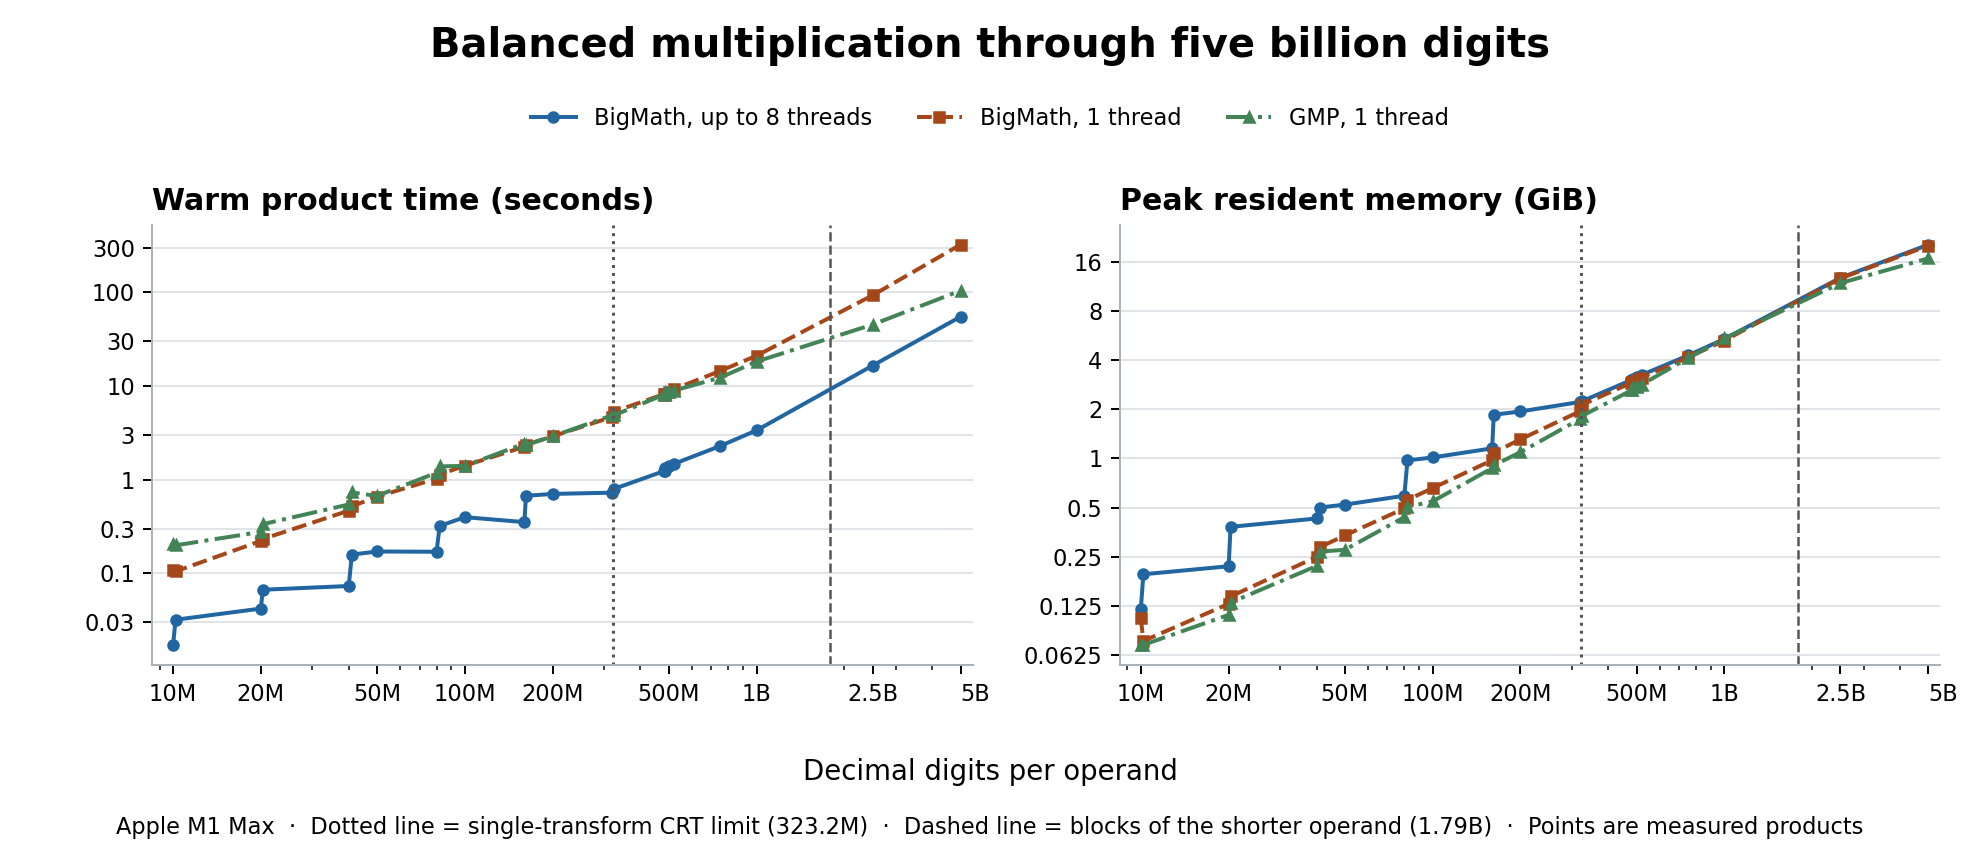
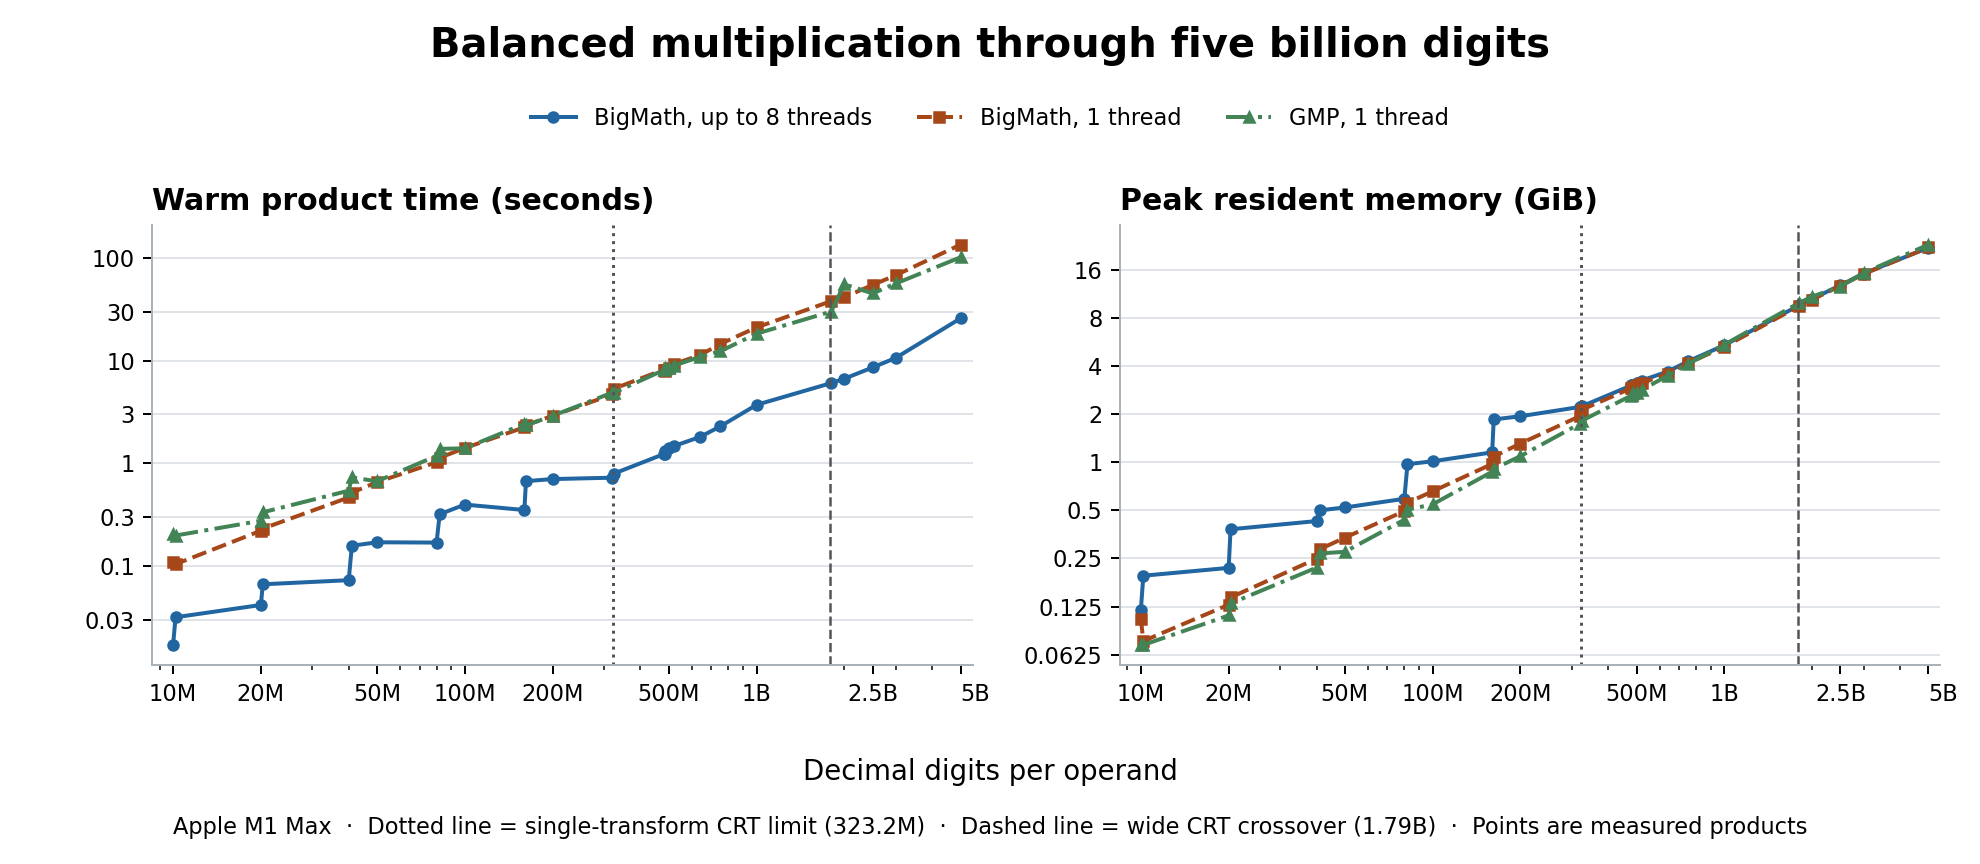
Publish wide CRT product benchmarks

diff --git a/docs/images/make_memory_plots.py b/docs/images/make_memory_plots.py
@@ -16,7 +16,7 @@ DEFAULT_CSV = HERE.parent / "benchmarks" / "2026-11-21-crt-ceiling-full-m1-max-m
 CEILING_CSV = HERE.parent / "benchmarks" / "2026-11-21-crt-ceiling-m1-max.csv"
 # Seeded balanced products remeasured after convolution residues replaced
 # block products above 646M digits; these replace the seeded rows above.
-LARGE_CSV = HERE.parent / "benchmarks" / "2026-11-21-residue-products-full-m1-max-memory.csv"
+LARGE_CSV = HERE.parent / "benchmarks" / "2026-11-21-wide-crt-m1-max-memory.csv"
 COLORS = ("#2165a1", "#a54718", "#438456")
 LIBRARIES = {"bigmath_default": "BigMath, up to 8 threads", "bigmath_single": "BigMath, 1 thread",
              "gmp": "GMP, 1 thread"}
@@ -119,7 +119,7 @@ def plot_ratios(rows, library, path, host, gmp_name, default_name):
     plt.close(fig)
 
 
-def plot_large(rows, path, host, default_name, *, show_block_boundary=False):
+def plot_large(rows, path, host, default_name, *, show_wide_boundary=False):
     samples = [r for r in rows if r["op"] == "mul" and r["a_digits"] == r["b_digits"]
                and int(r["a_digits"]) >= 10_000_000]
     largest = max(int(r["a_digits"]) for r in samples) / 1e6
@@ -127,7 +127,7 @@ def plot_large(rows, path, host, default_name, *, show_block_boundary=False):
     ceiling = 2**24 * 64 * math.log10(2) / 1e6
     # Shorter operand of 185,794,560 coefficients: the most one set of
     # signed residues resolves (CrtMaxBiasedTerms).
-    block_boundary = 185_794_560 * 32 * math.log10(2) / 1e6
+    wide_boundary = 185_794_560 * 32 * math.log10(2) / 1e6
     limited = any(r["status"] == "crt_length_limit" for r in samples)
     for ax, field, divisor, title in zip(axes, ["warm_ms", "warm_peak_bytes"], [1000, 2**30],
                                          ["Warm product time (seconds)", "Peak resident memory (GiB)"]):
@@ -138,8 +138,8 @@ def plot_large(rows, path, host, default_name, *, show_block_boundary=False):
             ax.plot(*zip(*points), marker=["o", "s", "^"][i], ms=4, color=COLORS[i],
                     lw=1.6, ls=["-", "--", "-."][i], label=default_name if lib == "bigmath_default" else label)
         ax.axvline(ceiling, color="#555", ls=":", lw=1.2)
-        if show_block_boundary:
-            ax.axvline(block_boundary, color="#555", ls="--", lw=1.0)
+        if show_wide_boundary:
+            ax.axvline(wide_boundary, color="#555", ls="--", lw=1.0)
         if limited:
             ax.axvspan(ceiling, largest * 1.1, color="#f0f1f4", zorder=-2)
         if field == "warm_ms":
@@ -158,8 +158,8 @@ def plot_large(rows, path, host, default_name, *, show_block_boundary=False):
                ncol=3, frameon=False, fontsize=9)
     fig.supxlabel("Decimal digits per operand", fontsize=11, y=.09)
     note = "Shaded sizes exceed BigMath’s CRT limit (323.2M)" if limited else "Dotted line = single-transform CRT limit (323.2M)"
-    if show_block_boundary:
-        note += f"  ·  Dashed line = blocks of the shorter operand ({block_boundary / 1000:.2f}B)"
+    if show_wide_boundary:
+        note += f"  ·  Dashed line = wide CRT crossover ({wide_boundary / 1000:.2f}B)"
     fig.text(.5,.035, "  ·  ".join(filter(None, (host, note, "Points are measured products"))),
              ha="center", fontsize=9)
     fig.subplots_adjust(top=.74, bottom=.23, left=.077, right=.98, wspace=.18)
@@ -188,4 +188,4 @@ if __name__ == "__main__":
         plot_ratios(results, name, args.outdir / f"bigmath_vs_gmp_memory{suffix}.png", host, gmp_name, default_name)
     if any(r["source"] == "seeded_binary" and r["a_digits"] == "1000000000" for r in results):
         plot_large(results, args.outdir / "bigmath_vs_gmp_large_products.png", host, default_name,
-                   show_block_boundary=published_snapshot)
+                   show_wide_boundary=published_snapshot)

diff --git a/BENCHMARK.md b/BENCHMARK.md
@@ -27,7 +27,7 @@ The November 21, 2026 full timing run measured revision `c945bdc` on the Apple M
 
 The full CSV includes the first call, fastest subsequent call, warm repetition count and arithmetic check status for all 111 rows. Most large sizes have one warm observation per library. All 24 product checks and 40 division checks matched GMP’s reference hashes. Each division mode was checked against the corresponding GMP operation. [README performance table](README.md#performance-numbers) · [Single-thread CSV](docs/benchmarks/2026-11-21-crt-ceiling-full-m1-max-single-thread.csv) · [Single-thread figure](docs/images/bigmath_vs_gmp_single_thread.png)
 
-The timing figures also show balanced products from 200M to 5B digits measured in fresh processes. The 200M sample is from the same revision and uses the same operands as the long-lived run; the larger sizes were remeasured on revision `99228ed`. [Isolated timings, peaks and hashes](docs/benchmarks/2026-11-21-residue-products-full-m1-max-memory.csv)
+The timing figures also show balanced products from 200M to 5B digits measured in fresh processes. The 200M sample is from the same revision and uses the same operands as the long-lived run; the larger sizes use seeded runs, including the wide CRT sweep from 640M through 5B. [Isolated timings, peaks and hashes](docs/benchmarks/2026-11-21-wide-crt-m1-max-memory.csv)
 
 To repeat the single-thread run, give the driver its own build and results directory. The figure generator uses the checked-in CSVs and requires Matplotlib.
 
@@ -60,7 +60,7 @@ To repeat the default-build run with fresh GMP timings, run the full profile fro
 bash tests/performance/benchsuite/run_benchmark.sh full --force-gmp
 ```
 
-To measure time and peak RSS in fresh processes, including the 500M, 750M, 1B, 2.5B and 5B products, run the extended profile. The 5B case needs about 21 GiB of RAM.
+To measure time and peak RSS in fresh processes, including the 500M, 750M, 1B, 2.5B and 5B products, run the extended profile. The 5B comparison peaked at 23.01 GiB per process.
 
 ```sh
 bash tests/performance/benchsuite/run_benchmark.sh full --extended
@@ -302,7 +302,7 @@ The 5M threaded result varied most. In 12 additional pairs of fresh processes wi
 
 ## Peak memory and large-product time
 
-The November 21, 2026 run measured revision `c945bdc` on an Apple M1 Max with 32 GiB of RAM. Each case ran in its own process for each library. The 111 standard cases share operands with the timing tables above. Seventeen additional balanced products used seeded inputs up to one billion decimal digits per operand. All 81 integer arithmetic results per BigMath build matched GMP. The figures replace those seeded products with 19 sizes through five billion digits measured on revision `99228ed`. [Times, RSS and hashes](docs/benchmarks/2026-11-21-crt-ceiling-full-m1-max-memory.csv) · [Seeded products through 5B](docs/benchmarks/2026-11-21-residue-products-full-m1-max-memory.csv) · [Previous full sweep](docs/benchmarks/2026-11-21-blocked-crt-memory-m1-max.csv) · [Benchmark instructions](tests/performance/benchsuite/README.md#isolated-peak-memory-and-time)
+The November 21, 2026 run measured revision `c945bdc` on an Apple M1 Max with 32 GiB of RAM. Each case ran in its own process for each library. The 111 standard cases share operands with the timing tables above. Seventeen additional balanced products used seeded inputs up to one billion decimal digits per operand. All 81 integer arithmetic results per BigMath build matched GMP. The figures use 23 seeded sizes through five billion digits. The wide CRT run refreshed seven sizes from 640M through 5B digits. [Times, RSS and hashes](docs/benchmarks/2026-11-21-crt-ceiling-full-m1-max-memory.csv) · [Seeded products through 5B](docs/benchmarks/2026-11-21-wide-crt-m1-max-memory.csv) · [Previous full sweep](docs/benchmarks/2026-11-21-blocked-crt-memory-m1-max.csv) · [Benchmark instructions](tests/performance/benchsuite/README.md#isolated-peak-memory-and-time)
 
 **How to read the figures.** RSS is the operating system’s high-water mark for resident process memory. We record it with the inputs ready, after the first operation, and after the last warm call, before hashing. Arithmetic panels show the last high-water mark. The warm BigMath product assigns a new result to the previous output variable. GMP passes the same destination back to `mpz_mul`. The measurements include the storage each public operation uses. Conversion panels show both readings. A ratio of 4 means BigMath reached four times GMP’s peak. Small operands include roughly 2 MiB of process startup memory. A fresh process at every size excludes caches built by preceding cases. The ordinary timing tables use a long-lived benchmark process.
 
@@ -331,7 +331,7 @@ The controls motivated the threaded dispatch change, compact serial weights and 
 
 ### Balanced products through five billion digits
 
-Each cell reports one warm product time and the process peak RSS through that call. The 19 additional sizes use seeded binary operands and were measured on revision `99228ed`, after convolution residues replaced block products above 646M digits. The standard sizes (10M, 20M, 50M, 100M and 200M) use operands from the full manifest and come from the `c945bdc` sweep; the change does not affect products of one transform. All three libraries ran on matching inputs, and all 38 BigMath products matched GMP. [Seeded measurements](docs/benchmarks/2026-11-21-residue-products-full-m1-max-memory.csv) · [Standard sizes](docs/benchmarks/2026-11-21-crt-ceiling-full-m1-max-memory.csv)
+Each cell reports one warm product time and the process peak RSS through that call. The 23 added sizes use seeded binary operands. Seven sizes from 640M to 5B were rerun with AppleClang Release builds on an Apple M1 Max with 32 GiB of RAM. The baseline is `3a6e250` and the wide build is `6ddd643`. The baseline GMP measurements and hashes serve as the reference for both builds. The other seeded sizes come from revision `99228ed`. The standard sizes (10M, 20M, 50M, 100M and 200M) use full-manifest operands from the `c945bdc` sweep. All reported BigMath products matched the corresponding GMP hash. [Seeded measurements](docs/benchmarks/2026-11-21-wide-crt-m1-max-memory.csv) · [Matched baseline](docs/benchmarks/2026-11-21-wide-crt-baseline-m1-max-memory.csv) · [Standard sizes](docs/benchmarks/2026-11-21-crt-ceiling-full-m1-max-memory.csv)
 
 | Digits per operand | BigMath, up to 8 threads | BigMath, 1 thread | GMP, 1 thread |
 |---:|---:|---:|---:|
@@ -355,12 +355,25 @@ Each cell reports one warm product time and the process peak RSS through that ca
 | 486M | 1.232 s · 3.06 GiB | 8.002 s · 2.94 GiB | 8.280 s · 2.73 GiB |
 | 500M | 1.419 s · 3.14 GiB | 8.552 s · 3.03 GiB | 8.550 s · 2.73 GiB |
 | 520M | 1.475 s · 3.25 GiB | 9.260 s · 3.13 GiB | 8.928 s · 2.84 GiB |
+| 640M | 1.811 s · 3.70 GiB | 11.300 s · 3.59 GiB | 10.895 s · 3.49 GiB |
 | 750M | 2.290 s · 4.28 GiB | 14.49 s · 4.16 GiB | 12.30 s · 4.12 GiB |
-| 1B | 3.368 s · 5.41 GiB | 21.09 s · 5.28 GiB | 18.26 s · 5.45 GiB |
-| 2.5B | 16.55 s · 12.81 GiB | 93.16 s · 12.71 GiB | 45.35 s · 11.90 GiB |
-| 5B | 54.95 s · 20.46 GiB | 323.0 s · 20.16 GiB | 104.3 s · 16.86 GiB |
+| 1B | 3.718 s · 5.40 GiB | 21.038 s · 5.28 GiB | 18.289 s · 5.45 GiB |
+| 1.8B | 6.043 s · 9.58 GiB | 37.777 s · 9.47 GiB | 29.946 s · 9.93 GiB |
+| 2B | 6.678 s · 10.53 GiB | 41.325 s · 10.43 GiB | 55.129 s · 10.89 GiB |
+| 2.5B | 8.582 s · 12.83 GiB | 54.461 s · 12.73 GiB | 44.972 s · 12.59 GiB |
+| 3B | 10.635 s · 15.18 GiB | 67.608 s · 15.08 GiB | 56.218 s · 15.31 GiB |
+| 5B | 25.757 s · 22.00 GiB | 133.979 s · 22.10 GiB | 101.045 s · 23.01 GiB |
 
-**Above 1.79B digits.** Up to eight threads, BigMath took 0.37× GMP’s time at 2.5B digits and 0.53× at 5B. On one thread it took 2.05× and 3.10×. One set of signed residues resolves a shorter operand of at most 185,794,560 coefficients, about 1.79B digits. Beyond it the shorter operand is cut into blocks and every block pair is a residue product again. At 2.5B digits that means two products of 1.25B by 2.5B digits, each transforming the whole longer operand. At 5B the longer operand is cut too, into six products of about 1.67B by 2.5B digits. Transform work therefore grows faster than the product: per prime, the residues add up to 12 transforms of length 2²⁶ at 2.5B and 39 at 5B, against 3.125 at 1B, while the product grows 2.5× and 5×. Peak RSS was 1.08× GMP’s at 2.5B and 1.21× at 5B in the threaded build.
+For balanced operands above 1.79B digits, wide CRT replaces standard-prime overlap-add. At 2.5B digits the warm time changed from 16.56 to 8.58 s with up to eight threads and from 94.33 to 54.46 s on one thread. At 5B the times changed from 56.00 to 25.76 s and from 322.19 to 133.98 s. The wide build peaked at 22.00 GiB threaded and 22.10 GiB single-threaded. A separately instrumented threaded 5B all-ones product took 21.54 s on its first call. Folding and weighting took 4.91 s, transforms 11.30 s, reconstruction including unweighting 2.77 s (12.9% of the call), and CRT finalization 1.73 s.
+
+The 640M control differed by 1.1% threaded and 3.6% single-threaded. The 1B control was repeated after timing varied in the first sweep. The repeat measured 3.396 versus 3.418 s threaded and 21.263 versus 21.044 s single-threaded, a difference of at most 1.1%. [1B control repeat](docs/benchmarks/2026-11-21-wide-crt-1b-control-m1-max-memory.csv)
+
+Run the isolated sweep on each revision with its own threaded and single-threaded builds.
+
+```sh
+python3 tests/performance/benchsuite/run_memory.py DATASET DEFAULT_BUILD SINGLE_BUILD wide.csv \
+  --balanced-digits 640000000 1000000000 1800000000 2000000000 2500000000 3000000000 5000000000
+```
 
 The curve crosses the 485M timing boundary smoothly. From 484M to 486M digits, warm time changed from 1.318 to 1.232 s threaded and from 8.159 to 8.002 s single-threaded. From 520M to 750M and 1B it follows the product length with no step at 646M digits.
 
@@ -380,7 +393,7 @@ The curve crosses the 485M timing boundary smoothly. From 484M to 486M digits, w
 
 From 640M to 650M the threaded time now rises by 13% instead of 3.5×, and the single-thread time by 5% instead of 2.7×. Peak RSS is higher than with blocks, by 0.67 GiB at 750M and 1.22 GiB at 1B in the threaded build: one product holds three residue planes for all of its coefficients, where a block pair held them for a third or a quarter of that length. The threaded peak is 4% above GMP's at 750M and below it at 900M and 1B. In the first pass, three warm calls of the previous threaded build were disturbed (11.1 to 11.6 s after first calls of 7.1 to 7.4 s); those sizes were measured again, and the CSV keeps both passes.
 
-Reproduce the focused run with the isolated benchmark. Run each build pair three times at 500M for the median. The 5B case needs about 21 GiB of RAM per process.
+Reproduce the focused run with the isolated benchmark. Run each build pair three times at 500M for the median.
 
 ```sh
 python3 tests/performance/benchsuite/run_memory.py DATASET DEFAULT_BUILD SINGLE_BUILD boundary.csv \

diff --git a/README.md b/README.md
@@ -8,7 +8,7 @@ Target: portable C++ (with optional NEON intrinsics on aarch64, scalar fallbacks
 
 The November 21, 2026 full benchmark measured revision `c945bdc` on an Apple M1 Max. Both BigMath builds used identical operands and a fresh single-thread GMP 6.3.0 reference. Values below 1× mean BigMath was faster. The arithmetic panels show warm calls, and the decimal conversion panels show first and warm calls. Most large cases had one warm measurement per library.
 
-In both timing figures, triangles show balanced products from 200M to 5B digits per operand. Each point compares BigMath and GMP on the same inputs in fresh processes. The 200M point appears in both timing runs; sizes above it were remeasured after the residue change described below. [Large-product measurements](BENCHMARK.md#balanced-products-through-five-billion-digits)
+In both timing figures, triangles show balanced products from 200M to 5B digits per operand. Each point compares BigMath and GMP on the same inputs in fresh processes. The 200M point appears in both timing runs. The wide CRT run refreshed seven sizes from 640M through 5B digits. [Large-product measurements](BENCHMARK.md#balanced-products-through-five-billion-digits)
 
 ### Single-threaded BigMath and GMP
 
@@ -48,15 +48,15 @@ In the full benchmark at `c945bdc`, multiplication at 5M × 500k digits had the 
 
 In the three-process comparison at 500M digits per operand, median warm multiplication fell from **3.13 to 1.50 s** with up to eight threads and from **18.84 to 8.85 s** on one thread. GMP took 8.41 s. Peak RSS rose from 3.03 to 3.14 GiB threaded and from 2.75 to 3.02 GiB single-threaded. The revised path uses additional convolution residues through about 646M digits per operand. [Before-and-after figure](docs/images/bigmath_crt_ceiling.png)
 
-Products above 646M digits now continue with further convolution residues instead of block products. A fresh-process rerun on revision `99228ed` measured these warm multiplication times and peak resident memory. Above about 1.79B digits per operand the shorter operand is cut into blocks of residue products, and single-thread BigMath falls behind GMP: 2.05× its time at 2.5B and 3.10× at 5B. [Full table, transform boundaries and paired measurements](BENCHMARK.md#balanced-products-through-five-billion-digits)
+Above about 1.79B digits per balanced operand, a wider prime set handles the product in one set of convolution residues. These measurements report warm multiplication time and process peak resident memory on an Apple M1 Max. [Full table and before-and-after measurements](BENCHMARK.md#balanced-products-through-five-billion-digits)
 
 | Digits per operand | BigMath, up to 8 threads | BigMath, 1 thread | GMP, 1 thread |
 |---:|---:|---:|---:|
 | 500M | 1.42 s · 3.14 GiB | 8.55 s · 3.03 GiB | 8.55 s · 2.73 GiB |
 | 750M | 2.29 s · 4.28 GiB | 14.49 s · 4.16 GiB | 12.30 s · 4.12 GiB |
-| 1B | 3.37 s · 5.41 GiB | 21.09 s · 5.28 GiB | 18.26 s · 5.45 GiB |
-| 2.5B | 16.55 s · 12.81 GiB | 93.16 s · 12.71 GiB | 45.35 s · 11.90 GiB |
-| 5B | 54.95 s · 20.46 GiB | 323.0 s · 20.16 GiB | 104.3 s · 16.86 GiB |
+| 1B | 3.718 s · 5.40 GiB | 21.038 s · 5.28 GiB | 18.289 s · 5.45 GiB |
+| 2.5B | 8.582 s · 12.83 GiB | 54.461 s · 12.73 GiB | 44.972 s · 12.59 GiB |
+| 5B | 25.757 s · 22.00 GiB | 133.979 s · 22.10 GiB | 101.045 s · 23.01 GiB |
 
 ![Warm multiplication time and peak memory through five billion digits per operand](docs/images/bigmath_vs_gmp_large_products.png)
 

diff --git a/tests/performance/benchsuite/README.md b/tests/performance/benchsuite/README.md
@@ -83,7 +83,7 @@ division is checked against the GMP result hash.
 `--extended` adds balanced products around transform boundaries and at 500M,
 750M, 1B, 2.5B and 5B decimal digits **per operand**, including 484M and 486M on opposite sides of the short-transform boundary. These extra fixtures use seeded
 binary magnitudes with exactly the specified decimal length, generated outside
-the measurement process. Balanced inputs above about 323M digits use convolution residues of one transform length in the default configuration; above about 1.79B digits the wide prime set extends the single residue product to about 8.05B digits. Larger products use overlap-add blocks. The 5B case needs about 21 GiB of RAM per process and several minutes per library.
+the measurement process. Balanced inputs above about 323M digits use convolution residues of one transform length in the default configuration; above about 1.79B digits the wide prime set extends the single residue product to about 8.05B digits. Larger products use overlap-add blocks. The 5B comparison peaked at 23.01 GiB per process and took several minutes per library.
 Historical executables that rejected those sizes reported `crt_length_limit` with empty timing and memory fields.
 Other exceptions, hash mismatches and failed processes fail the run. Raw inputs
 are discarded after each case. The driver prints the unique CSV path under
